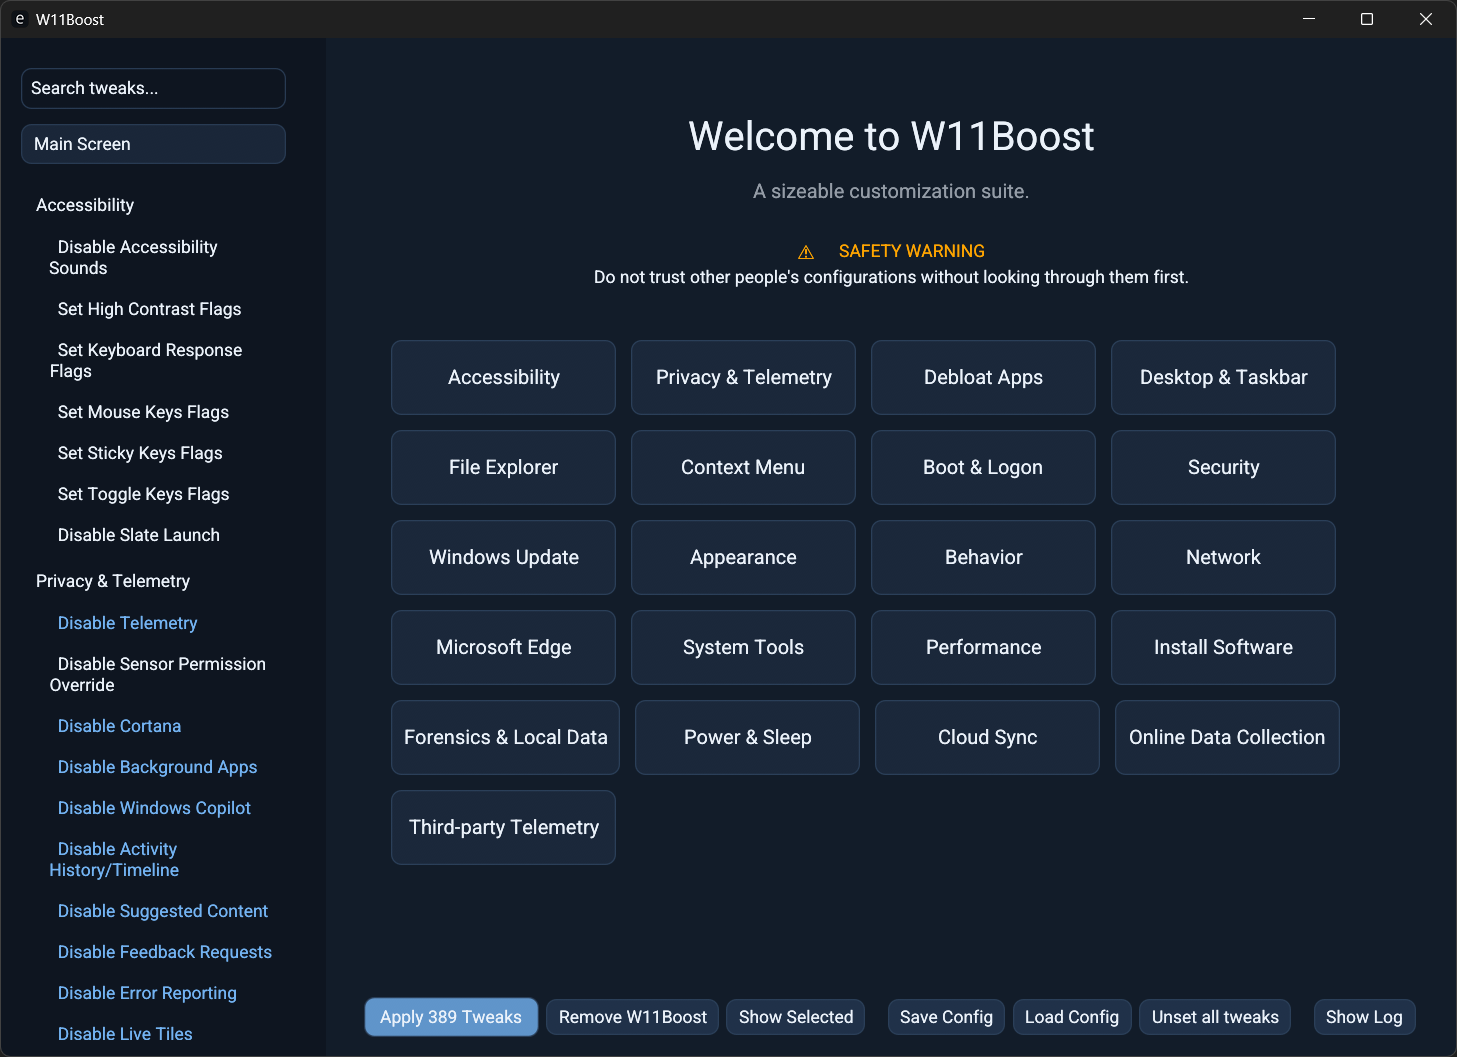
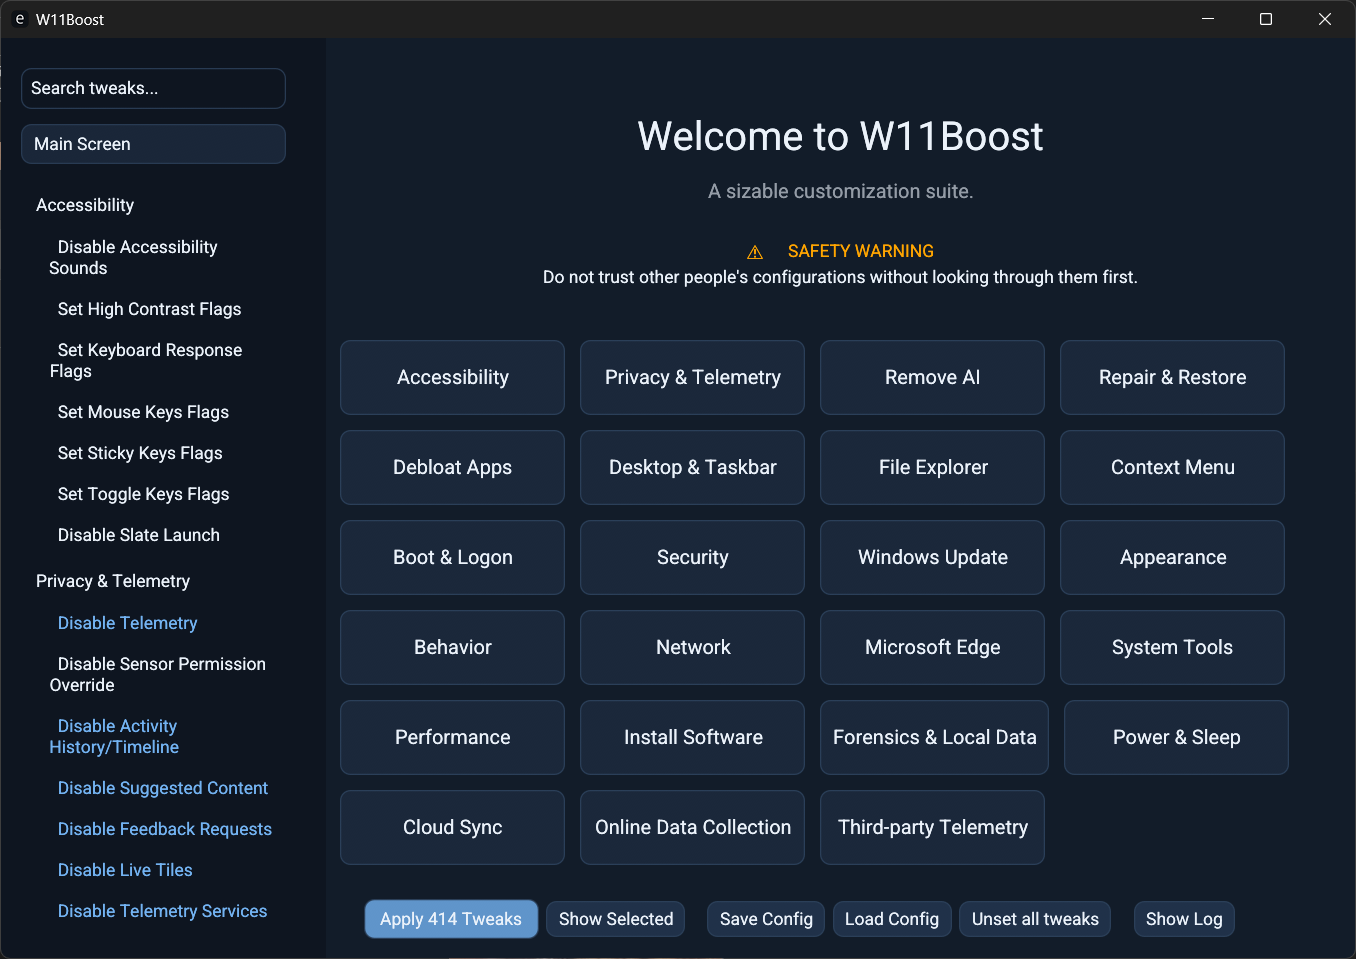
Remove disable background apps

diff --git a/src/gui/tweaks/privacy.rs b/src/gui/tweaks/privacy.rs
@@ -30,19 +30,6 @@ pub static PRIVACY_TWEAKS: &[Tweak] = &[
         ],
         },
         crate::tweak! {
-        id: "disable_background_apps",
-        category: "privacy",
-        name: "Disable Background Apps",
-        description: "Prevents UWP apps from running in the background, improving privacy and performance.",
-        effect: TweakEffect::Logoff,
-        enabled_ops: &[
-                crate::reg_dword!("HKCU", r"Software\Microsoft\Windows\CurrentVersion\BackgroundAccessApplications", "GlobalUserDisabled", 1, RegistryValue::Delete),
-                crate::reg_dword!("HKLM", r"Software\Microsoft\Windows\CurrentVersion\BackgroundAccessApplications", "GlobalUserDisabled", 1, RegistryValue::Delete),
-                crate::reg_dword!("HKLM", r"SOFTWARE\Policies\Microsoft\Windows\appprivacy", "LetAppsRunInBackground", 2, RegistryValue::Delete),
-                crate::reg_dword!("HKCU", r"Software\Microsoft\Windows\CurrentVersion\Search", "BackgroundAppGlobalToggle", 0, RegistryValue::Delete),
-        ],
-        },
-        crate::tweak! {
                 id: "disable_activity_history",
                 category: "privacy",
                 name: "Disable Activity History/Timeline",
@@ -1044,18 +1031,6 @@ pub static PRIVACY_TWEAKS: &[Tweak] = &[
         effect: TweakEffect::Immediate,
         enabled_ops: &[
             crate::reg_dword!("HKLM", r"Software\Microsoft\Windows\CurrentVersion\PushNotifications", "NoCloudApplicationNotification", 1, 0),
-        ],
-                },
-        crate::tweak! {
-        id: "disable_background_apps_policy",
-        category: "privacy",
-        name: "Disable Background Apps",
-        description: "Prevents apps from running in the background to save resources and improve privacy.",
-        effect: TweakEffect::Immediate,
-        enabled_ops: &[
-            crate::reg_dword!("HKLM", r"SOFTWARE\Policies\Microsoft\Windows\appprivacy", "LetAppsRunInBackground", 2),
-            crate::reg_dword!("HKLM", r"SOFTWARE\Policies\Microsoft\Windows\appprivacy", "LetAppsActivateWithVoice", 2),
-            crate::reg_dword!("HKLM", r"SOFTWARE\Policies\Microsoft\Windows\appprivacy", "LetAppsSyncWithDevices", 2),
         ],
                 },
         crate::tweak! {
